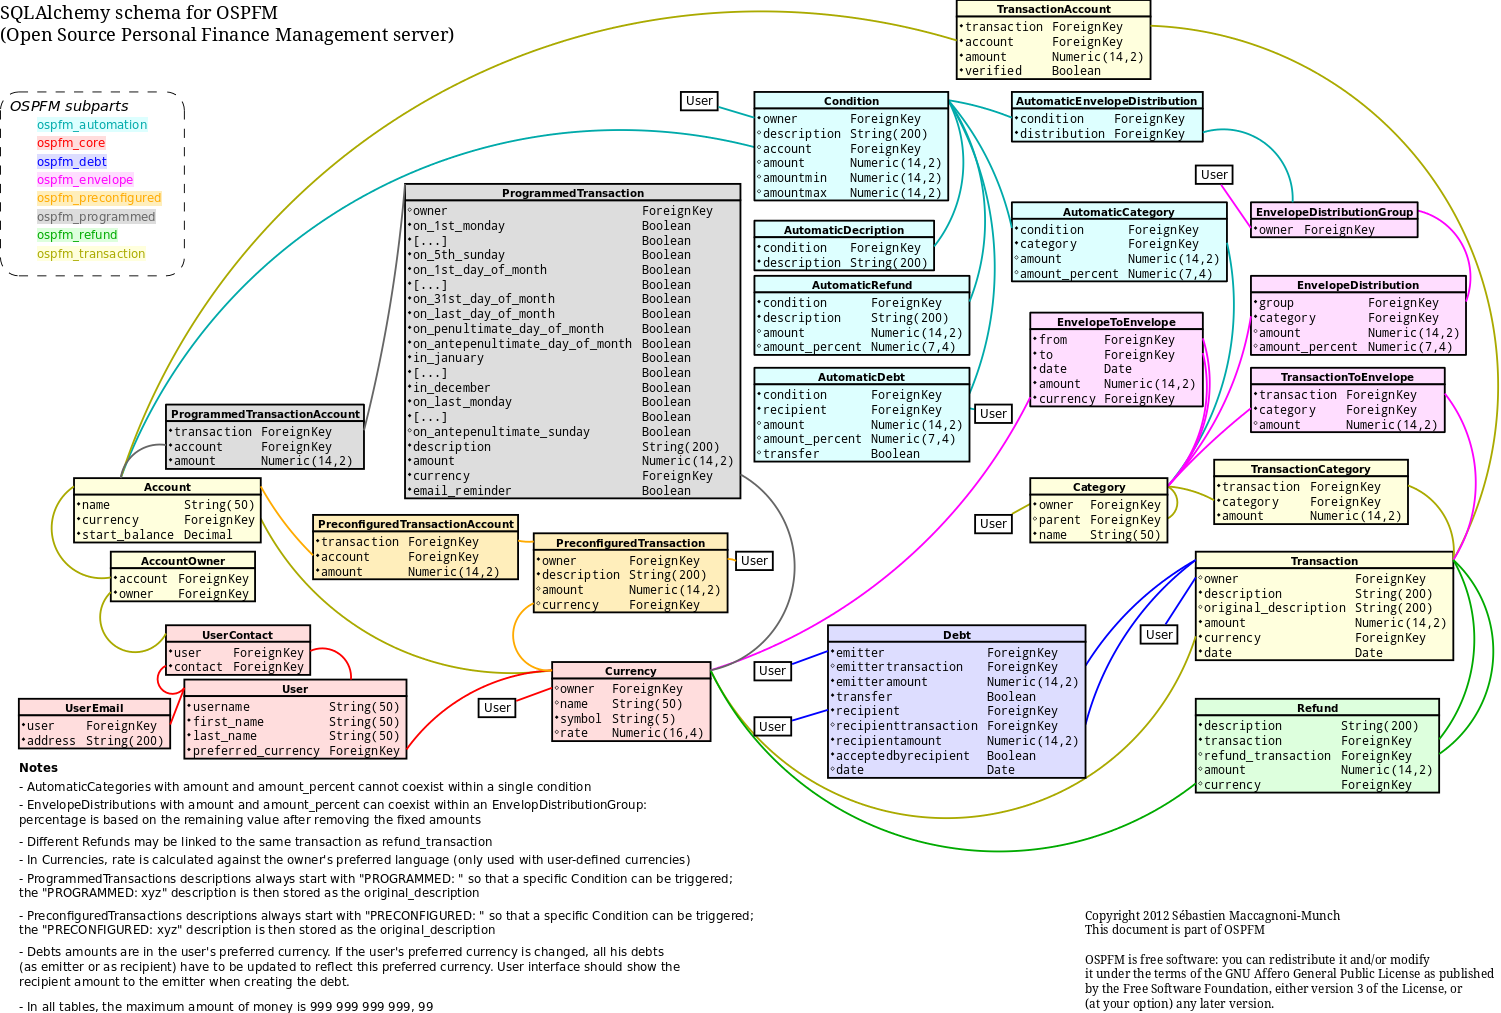
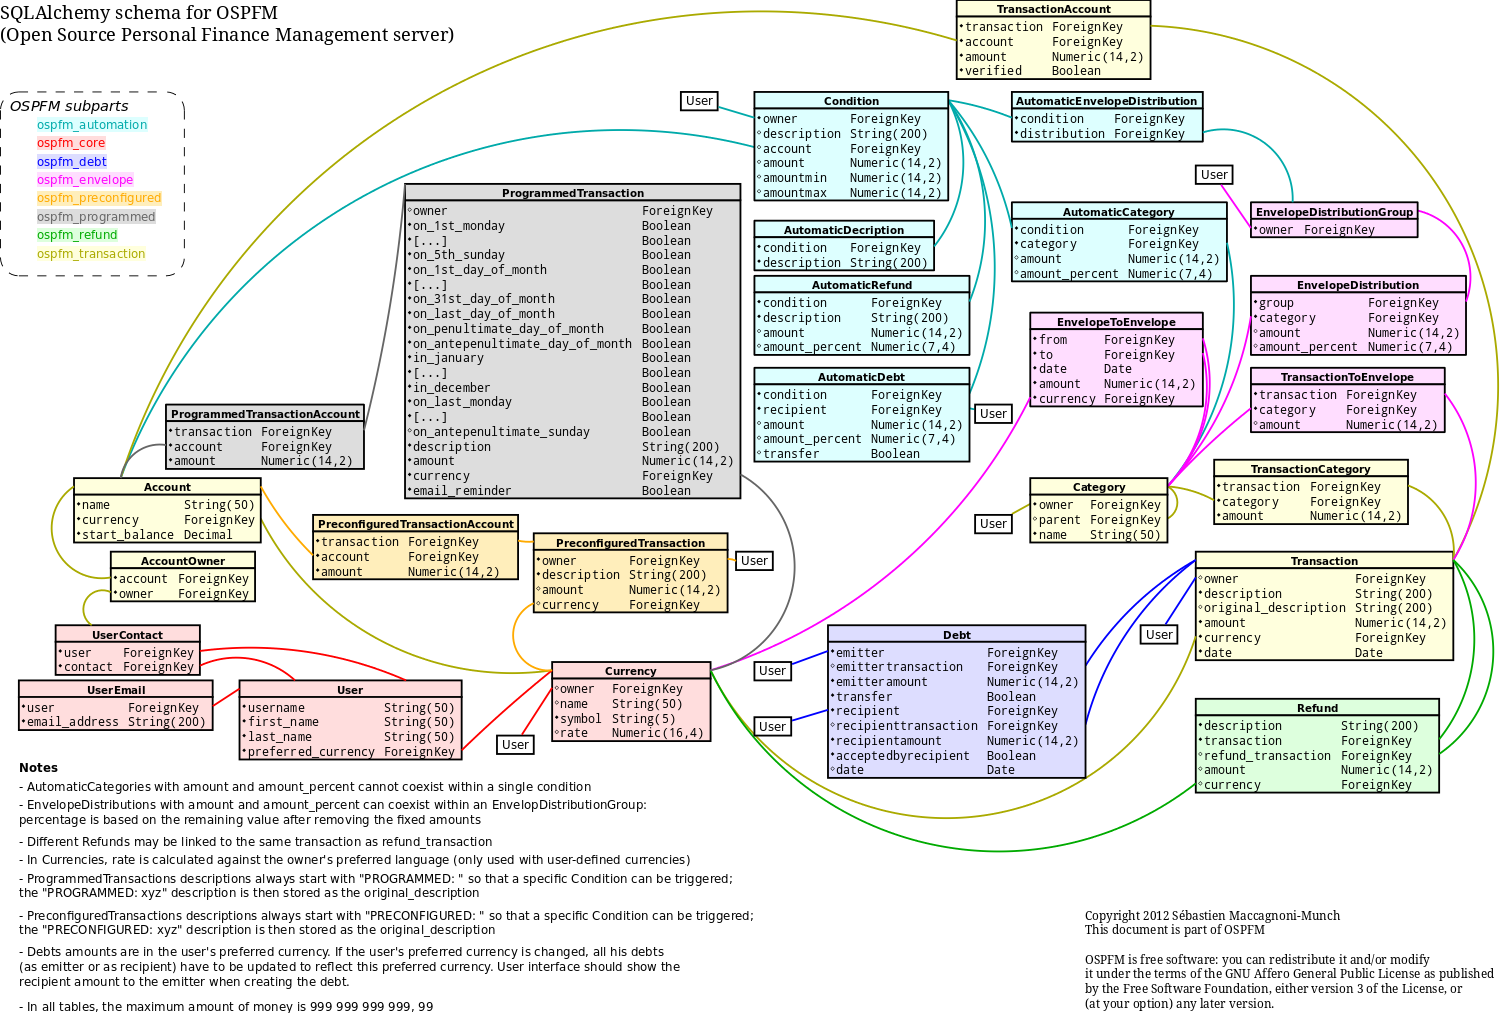
Changed some details in the global architecture and the schema

Changed region(s): [[0.0, 0.612, 0.3678, 0.7651]]

diff --git a/doc/ospfm-global-architecture.rst b/doc/ospfm-global-architecture.rst
@@ -2,72 +2,37 @@
 OSPFM global architecture
 #########################
 
-OSPFM is divided into multiple different subparts, implemented as Django
-applications.
+OSPFM is  a RESTful  pplication serving information  and answering  to requests
+in the JSON format.
 
-The following schema explains interaction between them::
+OSPFM may be divided in differents subparts.
 
-                    +-----------------------+
-                    | +-----------------------+
-                    | | +-----------------------+
-                    | | |                       |
-                    +-| | back-end applications |
-                      +-|                       |
-                        +-----------------------+
+List of subparts
+================
 
-                      /              |            \
-                     /               |             \
-                    /                |              \
-                   /                 |               \
- +----------------------+ +--------------------+ +---------------------+
- |                      | |                    | |  subscription and   |
- | mobile web interface | | rich web interface | | billing application |
- |                      | |                    | |  (not Open Source)  |
- +----------------------+ +--------------------+ +---------------------+
+* ``automation``: automatic transformations or creations
+* ``core``: core data, not belonging to any other part
+* ``debt``: debts between users
+* ``envelope``: envelope-oriented budgeting
+* ``preconfigured``: preset transactions for easy add
+* ``programmed``: programmed transactions
+* ``refund``: refunds management (like social protection reimbursements)
+* ``transaction``: transactions, accounts, categories
 
-List of applications
-====================
+Choice of framework
+===================
 
-Back-end applications
----------------------
+At first, the name "OSPFM" represented all parts of the project : the database,
+the back-end, the interfaces.  And everything would have been made with Django.
+But this  choice  was too  restrictive.  That's why  the name "OSPFM"  now only
+applies to the  back-end server, and  Django is not used for  this part because
+many of its features are not used in the back-end: templates, etc.
 
-Data storage and manipulation is done in Django applications.
+Flask has been  chosen because it is lightweight;  and, of course,  because its
+programming language is Python.
 
-These applications are:
+SQL schema
+==========
 
-* ``ospfm_automation``: automatic transformations or creations
-* ``ospfm_core``: core data, not belonging to any other part
-* ``ospfm_debt``: debts between users
-* ``ospfm_envelope``: envelope-oriented budgeting
-* ``ospfm_preconfigured``: preset transactions for easy add
-* ``ospfm_programmed``: programmed transactions
-* ``ospfm_refund``: refunds management (like social protection reimbursements)
-* ``ospfm_transaction``: transactions, accounts, categories
-
-Rich web interface
-------------------
-
-The rich web interface is oriented toward users on computers (and maybe on
-tablets).
-
-Mobile web interface
---------------------
-
-The mobile web interface is optimized for smartphones (and maybe tablets).
-
-Subscription and billing application
-------------------------------------
-
-A subscription and billing application should manage users and their
-authorizations. This is not a part of OSPFM, it is not distributed as an
-Open Source product.
-
-Django models
-=============
-
-Django models for OSPFM are described in the ``ospfm-django-models-schema.dia``
-Dia file (``ospfm-django-models-schema.png`` for an easily readable image).
-
-
-
-
+The database SQL  schema is described in the  ``ospfm-sql-schema.dia`` Dia file
+(``ospfm-sql-schema.png`` for an easily readable image).
